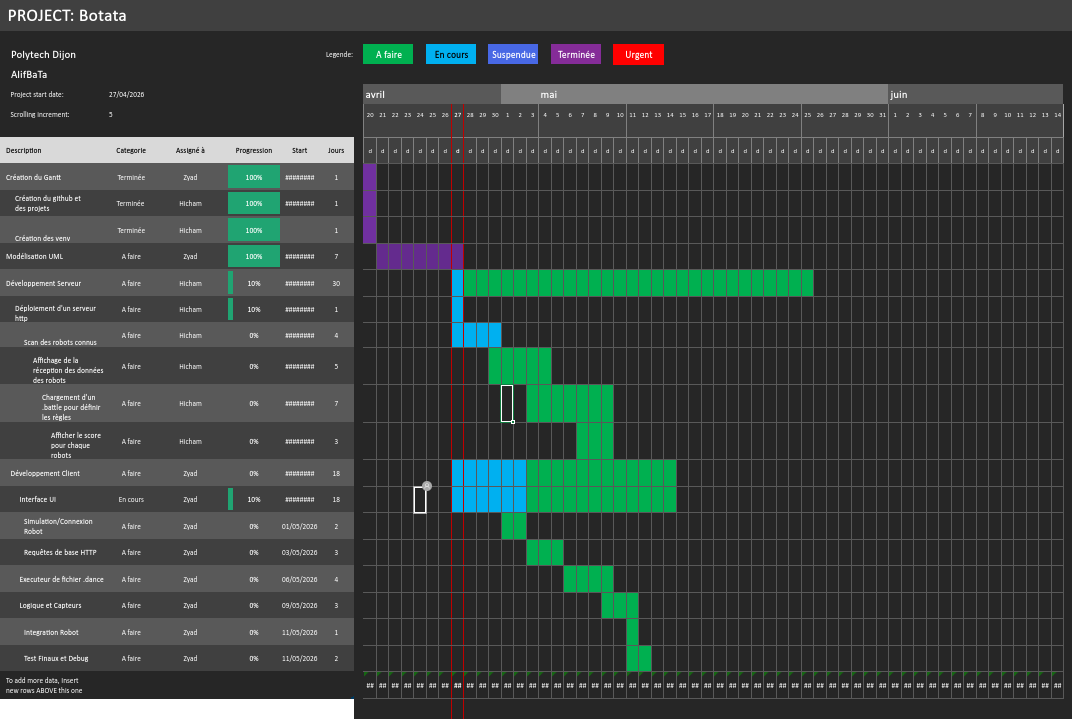
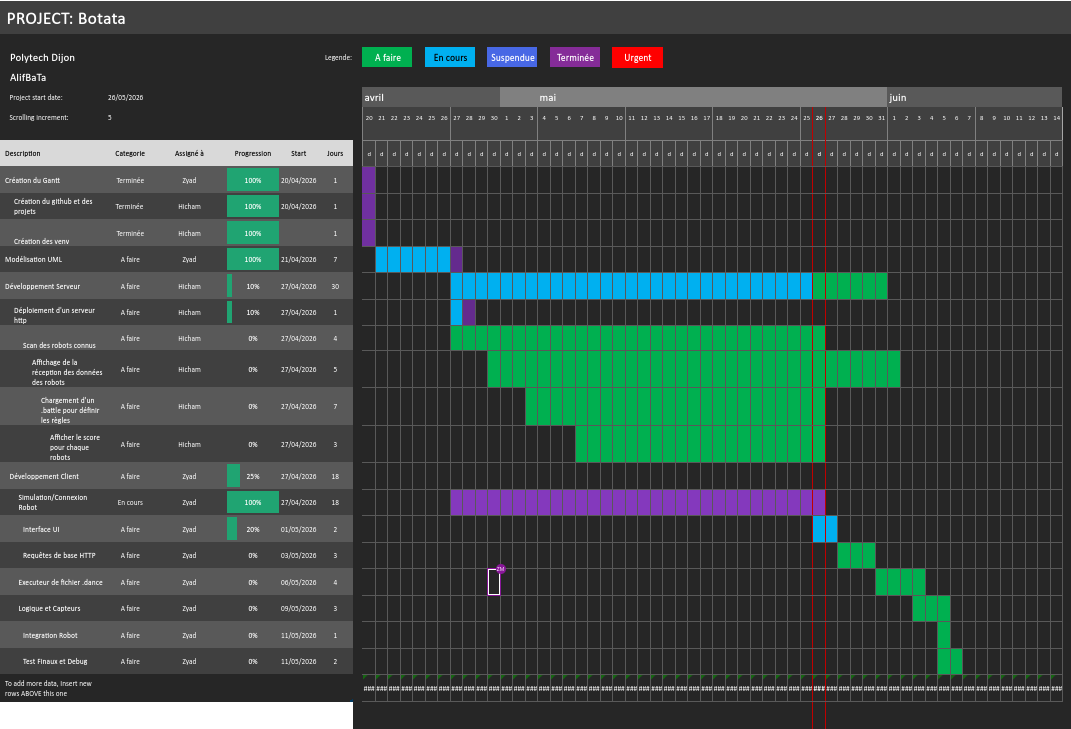
ajout propre des requirements et du server.py. Mise à jour du Gantt

diff --git a/server.py b/server.py
@@ -1,4 +1,9 @@
-def run(server_class=HTTPServer, handler_class=BaseHTTPRequestHandler):
-    server_address = ('', 8000)
+import http.server
+from martypy import Marty
+
+def run(server_class=http.server.HTTPServer, handler_class=http.server.BaseHTTPRequestHandler):
+    server_address = ('', 8080)
     httpd = server_class(server_address, handler_class)
-    httpd.serve_forever()
+    httpd.server_forever()
+
+my_mart = Marty("wifi", "192.168.0.111")
